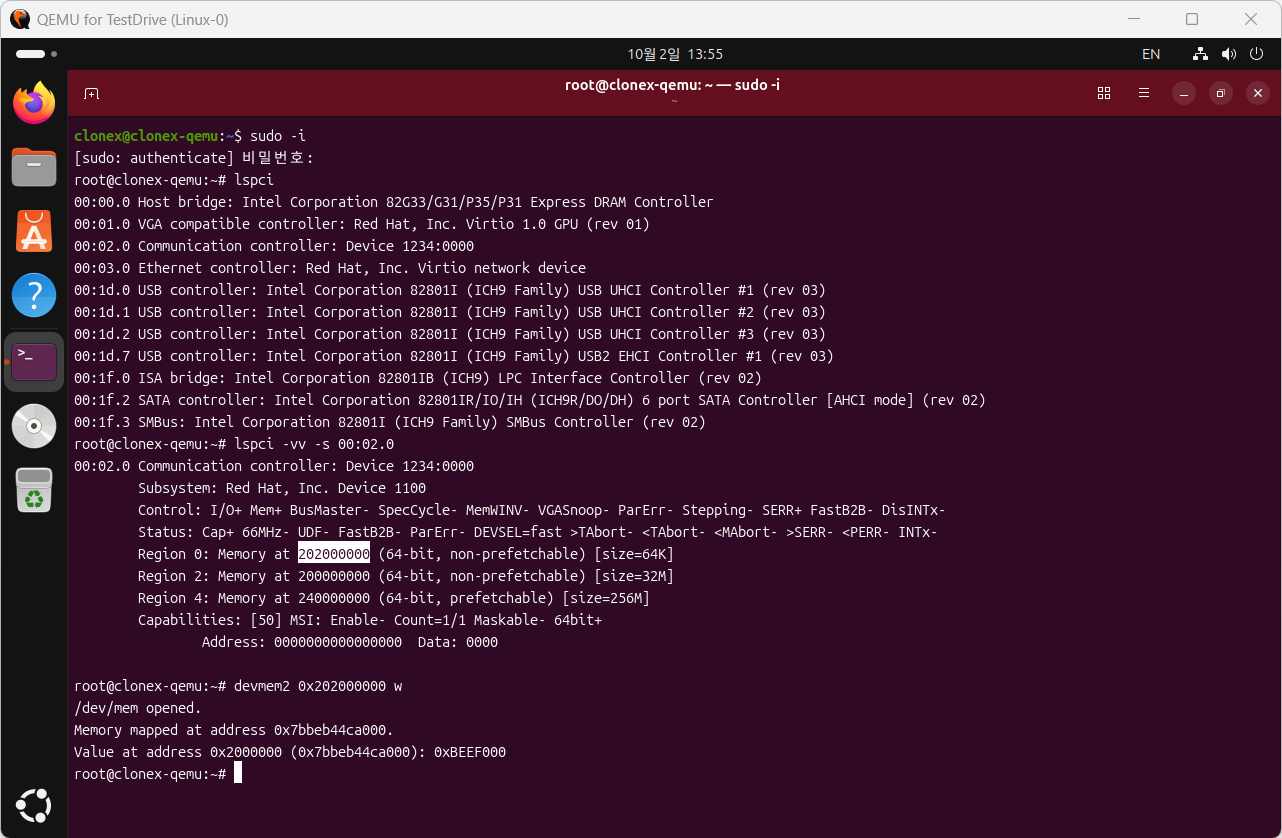
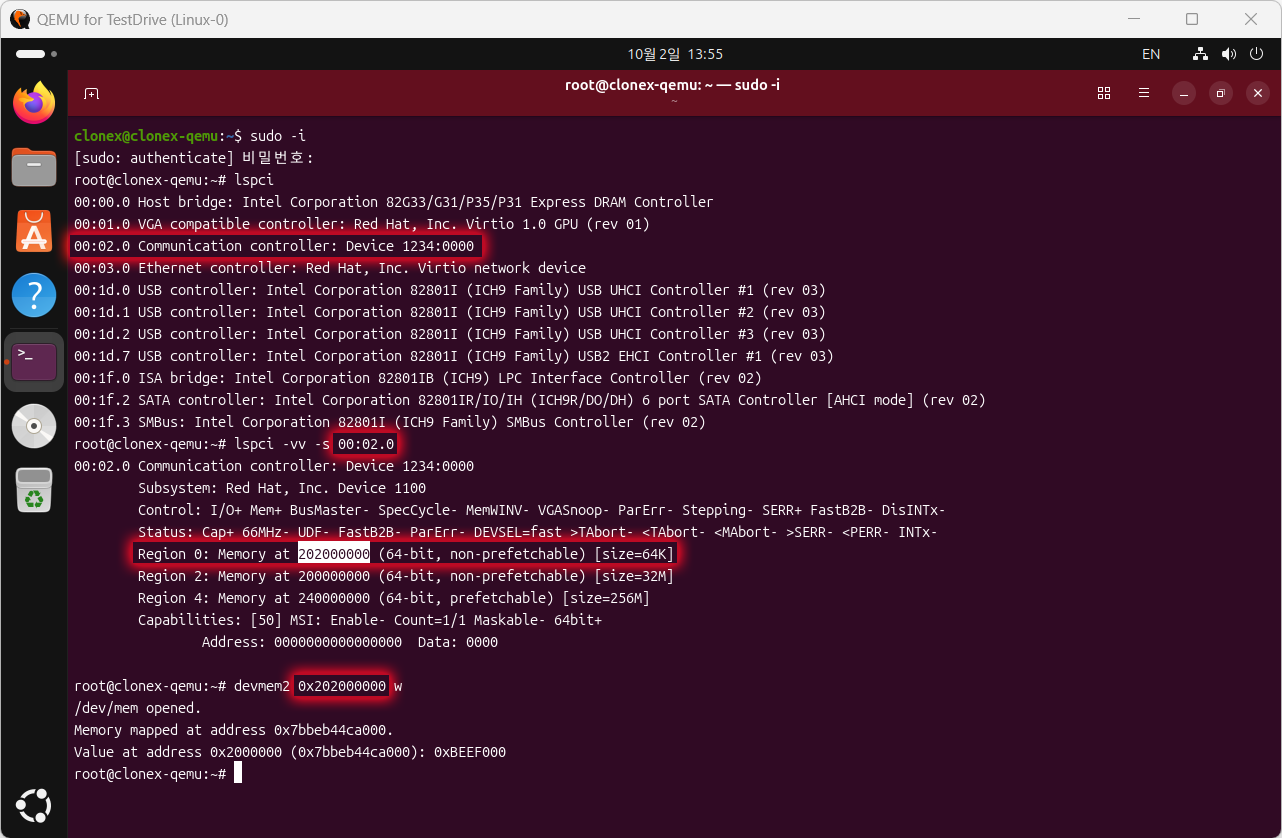
영문으로 변경

diff --git a/wiki/tutorial_hw.md b/wiki/tutorial_hw.md
@@ -11,33 +11,36 @@ C:\Users\HyungKi>cd /d D:\Project\Profiles\Meitner\System\HDL\DUTs\Test
 
 D:\Project\Profiles\Meitner\System\HDL\DUTs\Test>.eclipse
 ```
-> TestDrive 를 재시작 후 `속성 뷰`의 **"System/Simulation top design"** 에서 생성한 프로젝트를 선택한다.
-`프로파일 뷰` 에서 **"System/Build/Build H/W"** 를 실행하여 직접 컴파일하거나,
-`속성 뷰`의 **"빌드 자동화"** 를 선택하면 소스 변경시 자동으로 컴파일 된다.
+> After restarting TestDrive project, you can select the project you created under **"System/Simulation top design"** in the `Properties view`.
+And you can compile manually by executing **"System/Build/Build H/W"** in the `Profile View`, or select **"Build Automation"** in the `Properties View` to trigger automatic compilation whenever the source code changes.
 
 ## 1. Project creation
-verilog 프로젝트는 TestDrive 상의 관리가 필요하므로 특정 폴더에서 생성합니다.
-`%PROJECT%System/HDL/DUTs` 위치에서 아래의 명령을 실행하여 프로젝트를 생성합니다.
+The Verilog project is created based on the dependencies of the most recently executed TestDrive project.
+When the command below is executed, the project is created at the location `%PROJECT%System/HDL/DUTs`.
 
-*(basic Verilog project - for beginer)*
+**(basic Verilog project - for beginer)**
 ```bash
 create_project v [Project_Name]
 ```
 Or
-*(bared Verilog project - for expert)*
+**(bared Verilog project - for expert)**
 ```bash
 create_project v_bare [Project_Name]
 ```
+Or
+**(Verigen Verilog project - for hyper-expert :)**
+```bash
+create_project verigen [Project_Name]
+```
 
 ## 2. Project select and build
-프로젝트 빌드는 TestDrive 를 통해서만 가능하며,
-`현재 시뮬레이션`으로 선택과 `빌드` 과정이 필요합니다.
-이를 위해서 TestDrive 를 재시작 후, 아래와 같이 선택합니다.
-![project_v_select](img/project_v_select.jpg)
+Project builds can only be performed via TestDrive; the process requires selecting "Simulation top design" and then executing the build.
+To do this, restart TestDrive and make the selection as shown below.
+![project_v_select](img/project_v_select.png)
 
-이 때 `빌드 자동화` 도 같이 'True' 로 설정하면 프로젝트의 소스가 수정될 때 같이 컴파일 됩니다.
-만약 별도로 빌드하려면 `프로파일 뷰` 에서 **"System/Build/Build H/W"** 를 선택하면 됩니다.
+If you also set `Build Automation` to 'True', the project source will be compiled whenever it is modified.
+To build manually, select **"System/Build/Build H/W"** in the `Profile View`.
 
-그 외 세부 설정을 보려면 [System Manager Document](?Document_SystemManager.md) 의 '8장 ~ 13장' 을 참조 하시기 바랍니다.
+For further details on settings, please refer to Chapters 8 through 13 of the [System Manager Document](?Document_SystemManager.md).
 
 ### [:fa-arrow-left: Back](?top.md)
